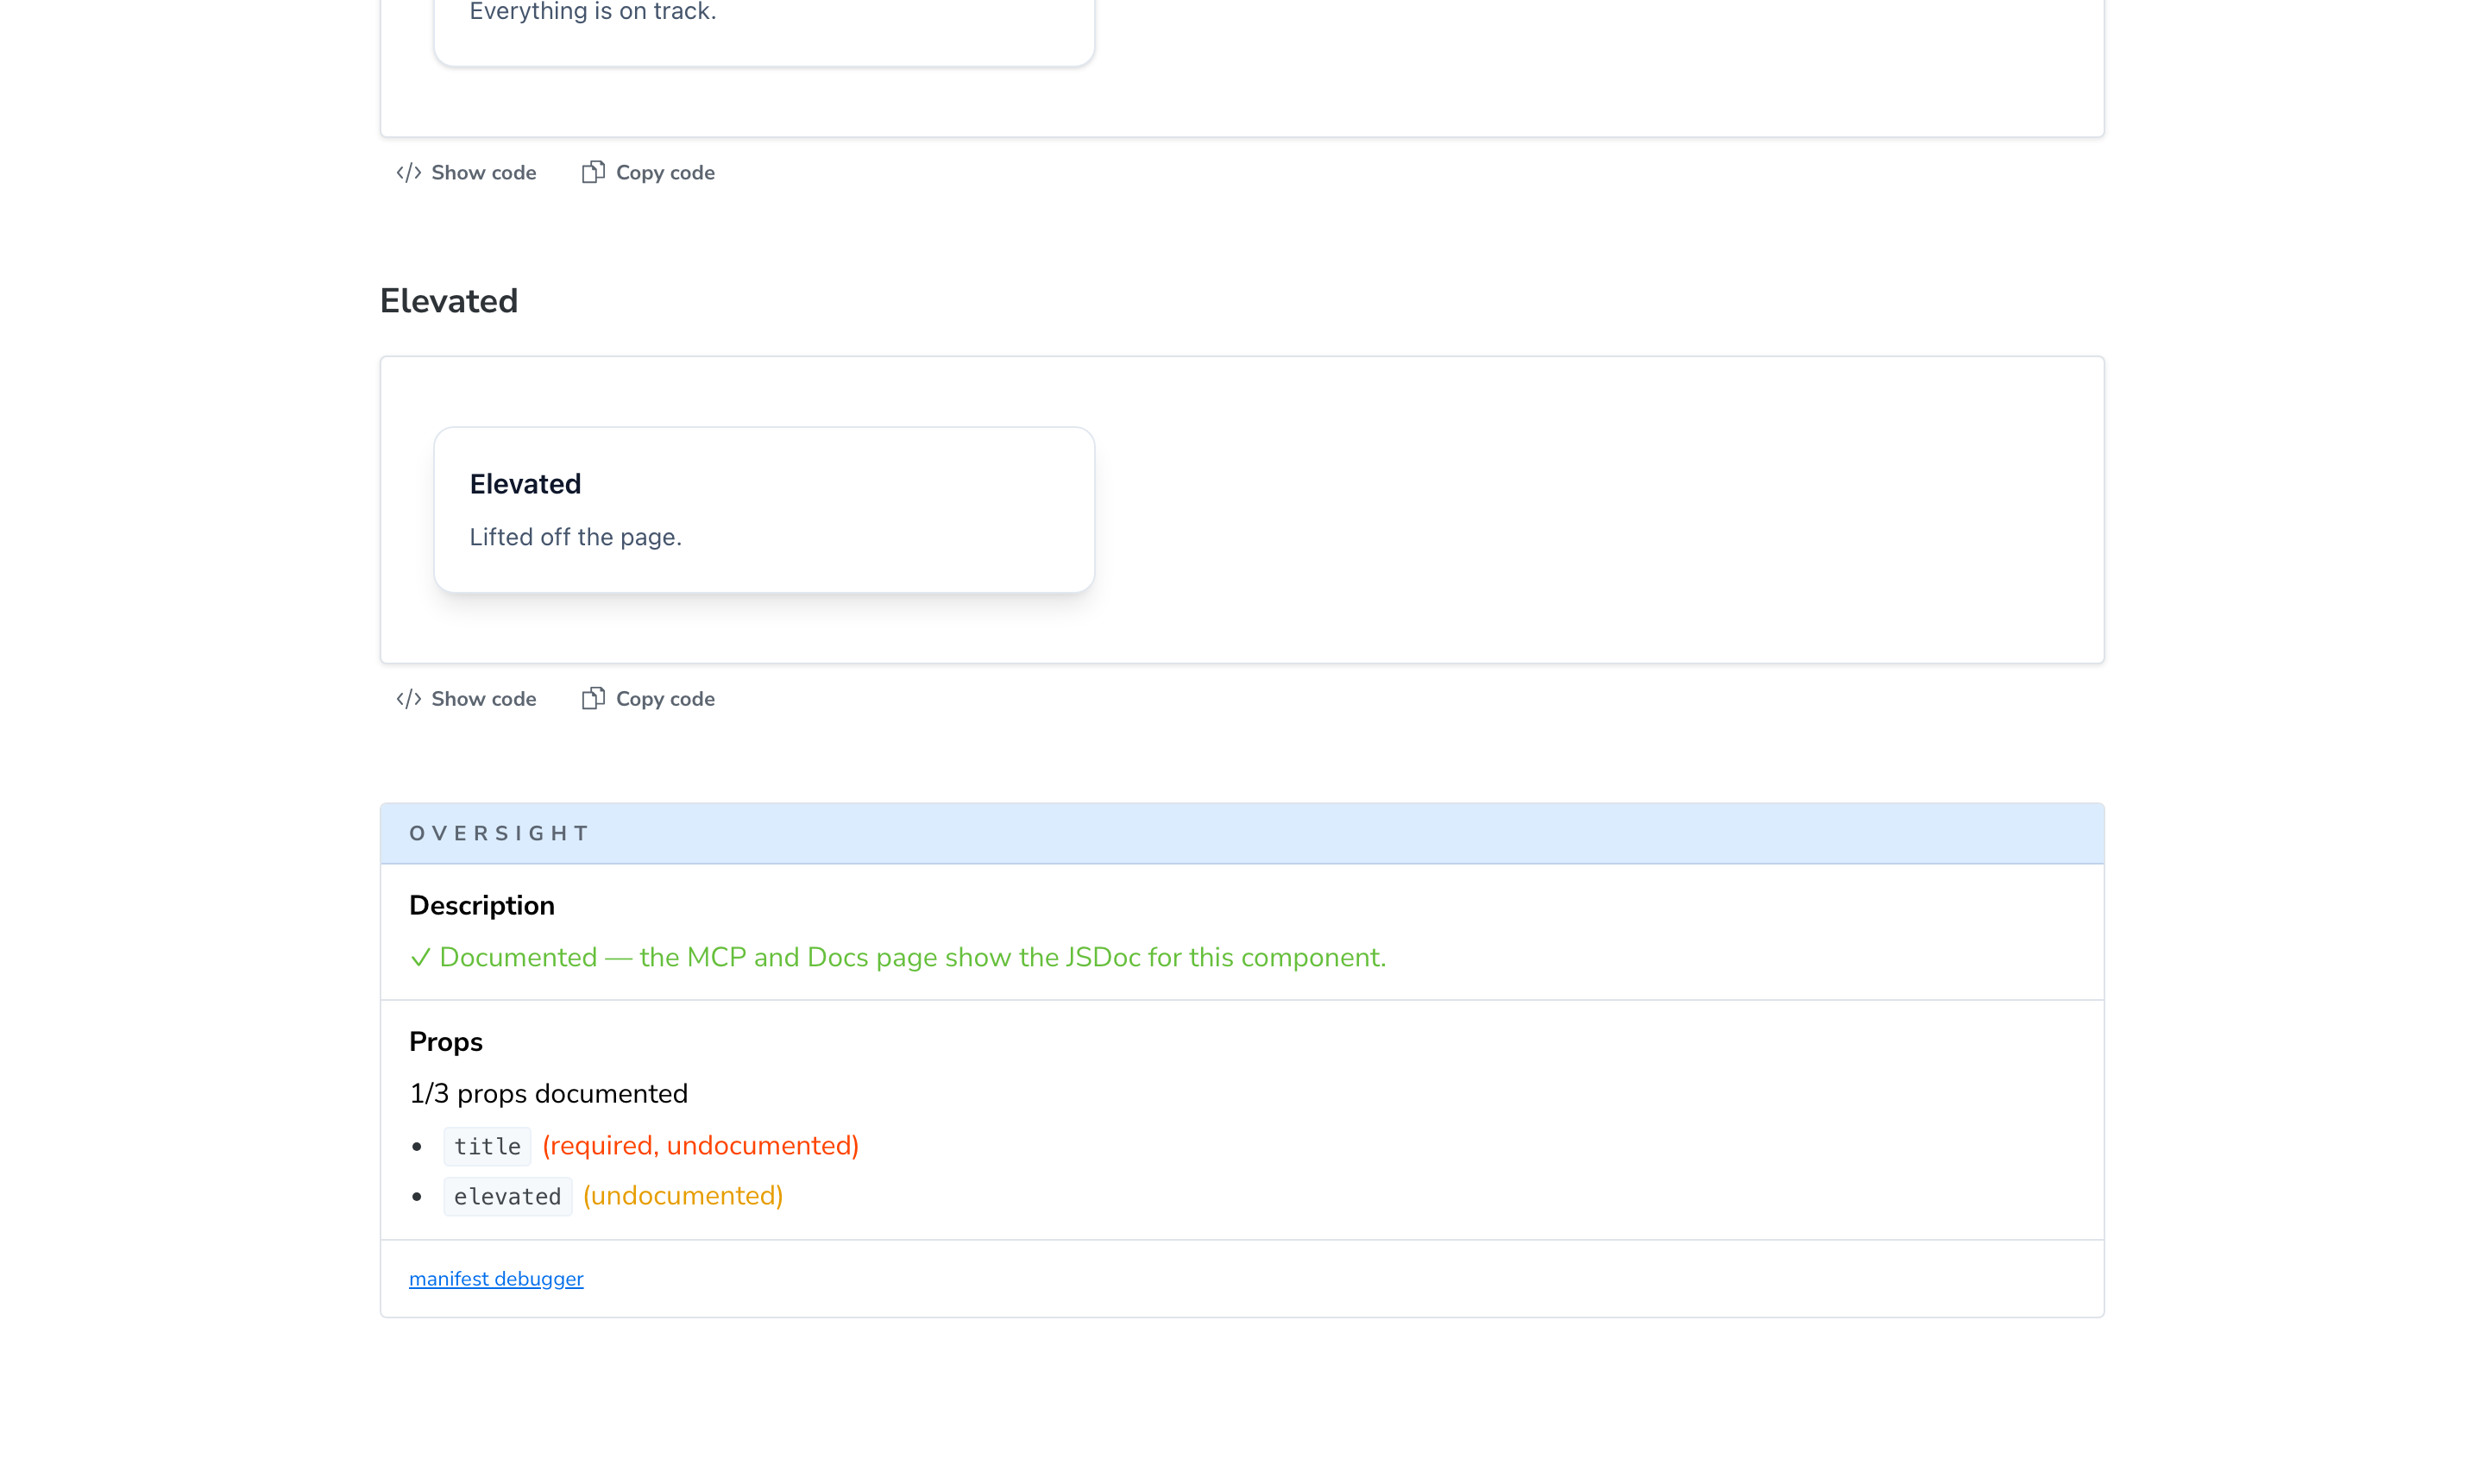
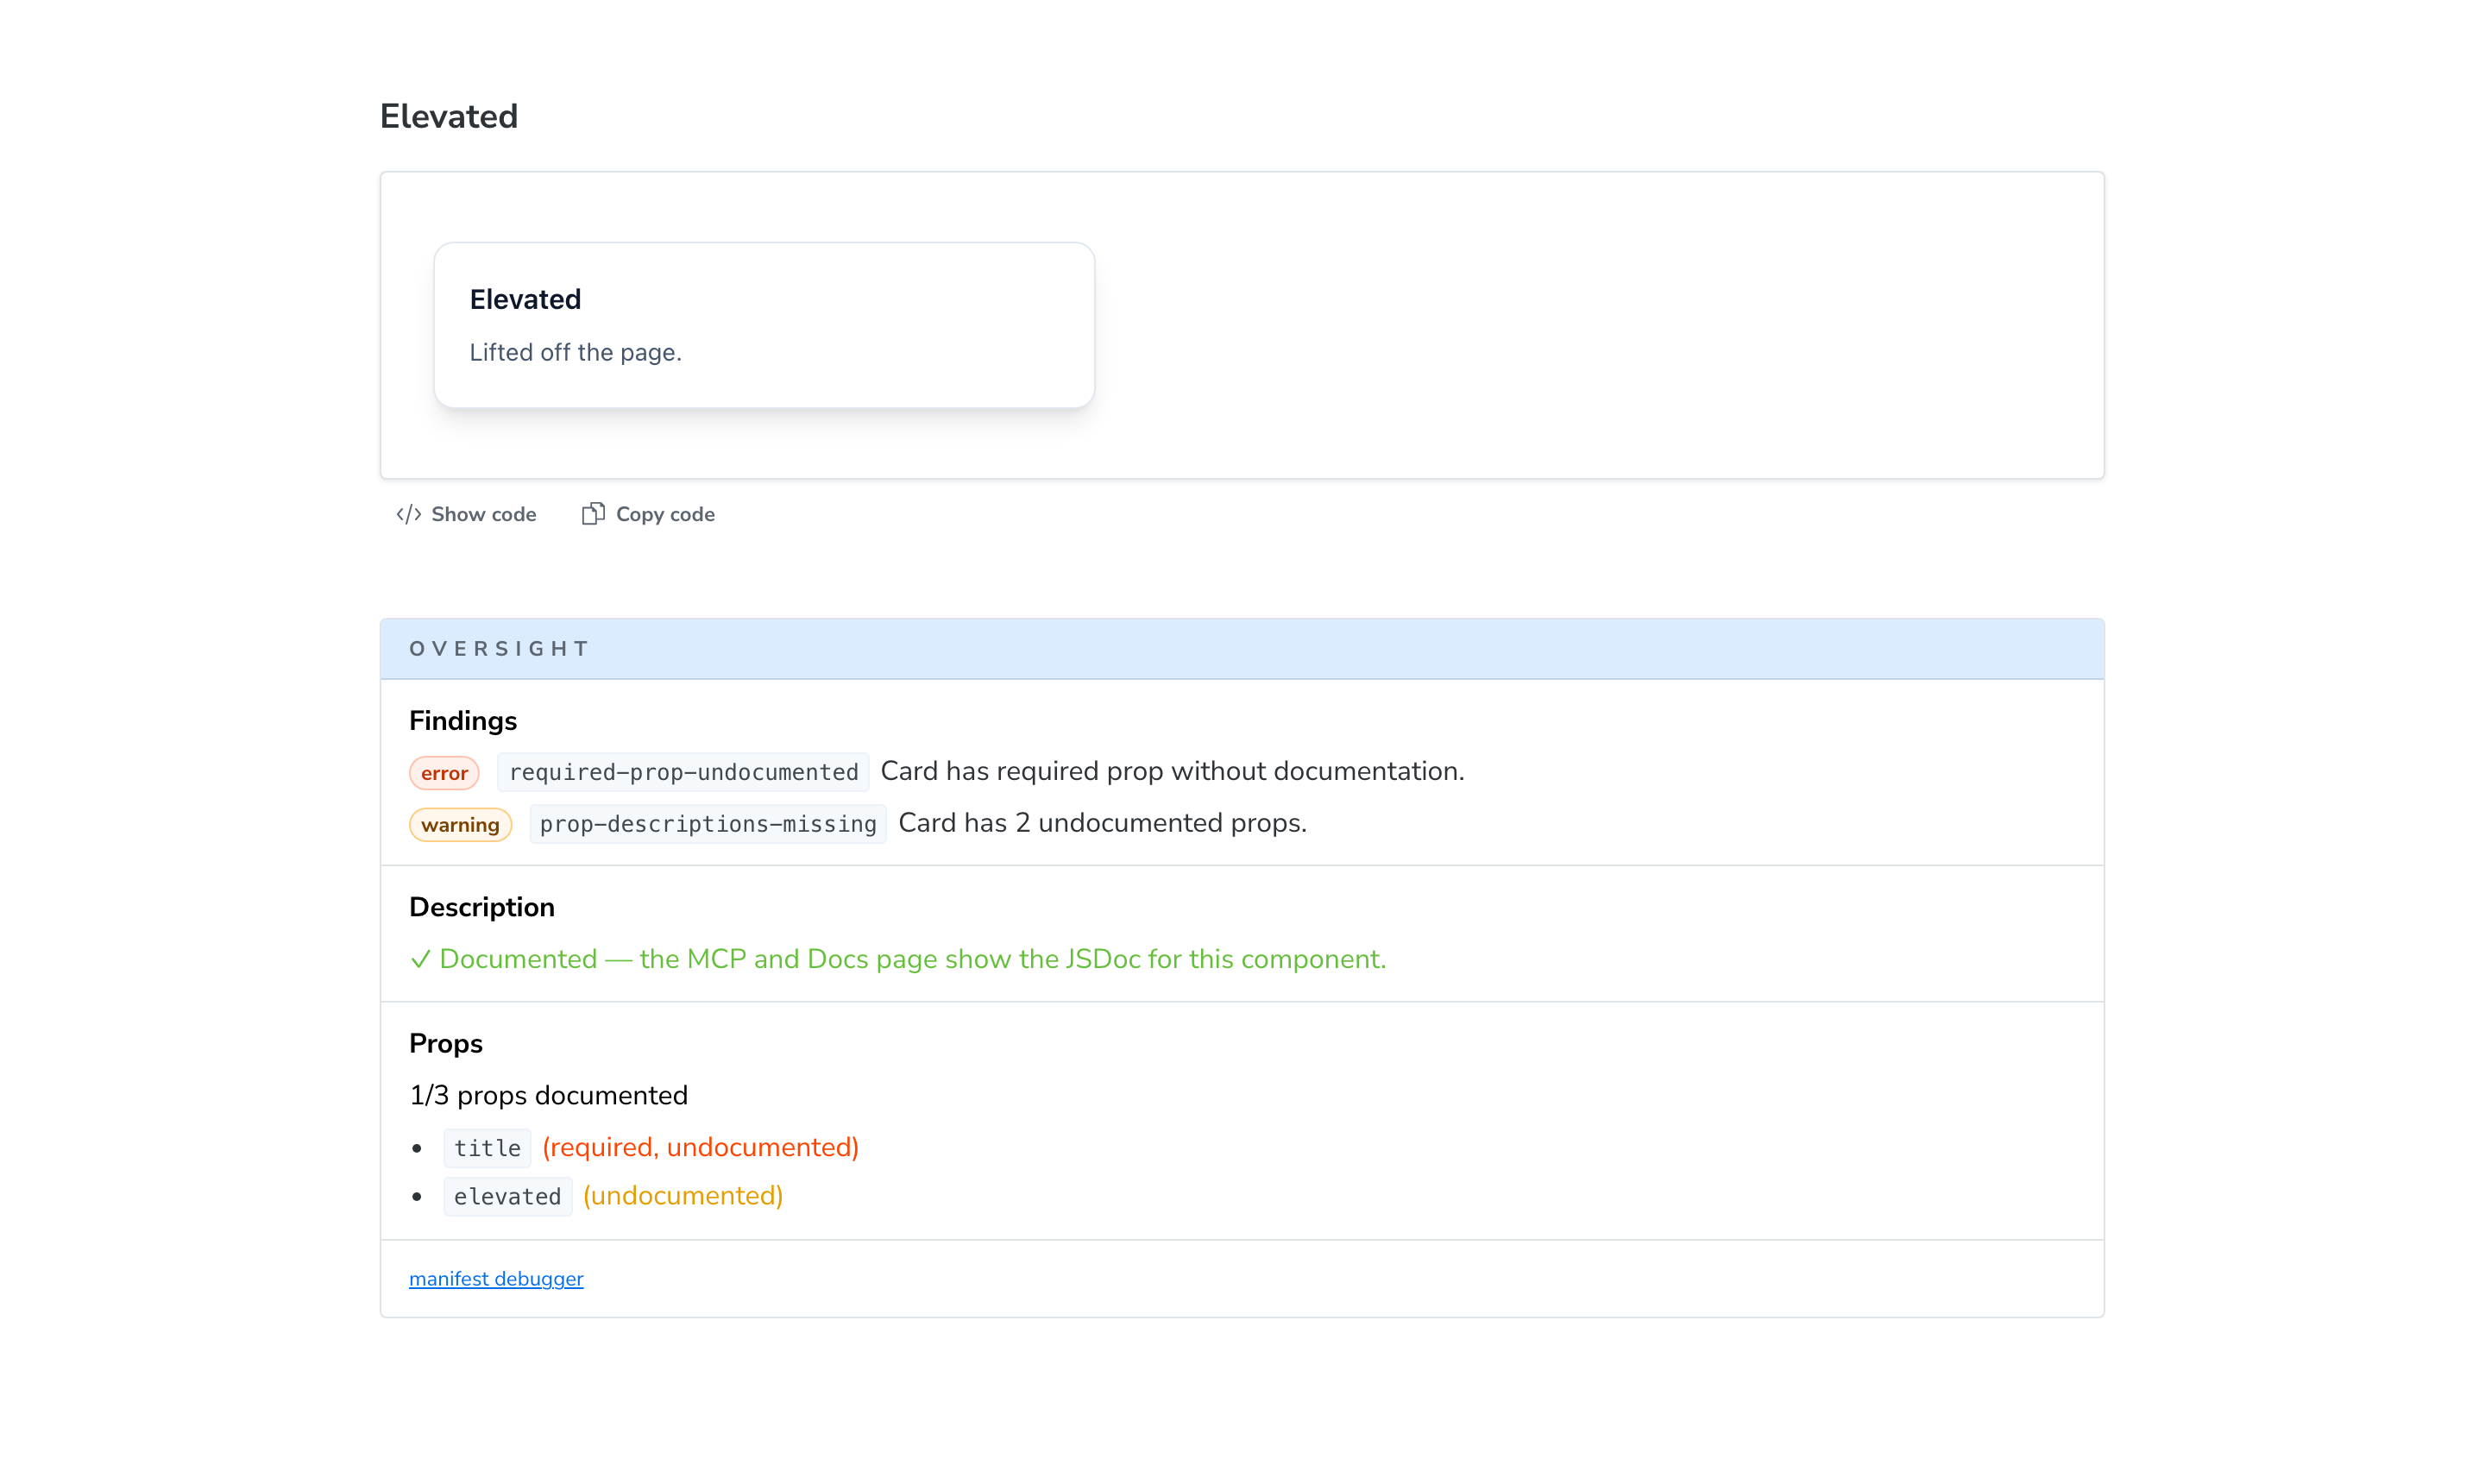
feat: surface findings as named lint rules in the panel and docs block
Render report.diagnostics as a "Findings" section (severity badge + rule name
+ message) in both the manager panel and the docs block, keeping the
Description/Props coverage as drill-down detail. Manifest-level findings
(extractor-drift) get their own "Manifest" section via a new
ComponentReport.manifestDiagnostics field, kept out of the per-component tab
count. Dangling docs links are now struck through inline in the description and
are no longer dead-navigating anchors, driven by a structured `targets` field
on the diagnostic.

Docs: add a "why these are lint rules" section to the README and Overview
explaining the judgments a raw manifest view can't make, correct the Overview's
mischaracterization of extractor-drift as an extraction failure (with an
illustrative Manifest-section still), and regenerate the demo screenshots.

Claude-Session: https://claude.ai/code/session_019cpJgQmmWwrWGQbUu5Xq4d

diff --git a/src/components/ReportView.tsx b/src/components/ReportView.tsx
@@ -1,9 +1,9 @@
 import { Fragment } from 'react';
 import type { ComponentType } from 'react';
-import { Placeholder } from 'storybook/internal/components';
+import { Badge, Placeholder } from 'storybook/internal/components';
 import { styled } from 'storybook/theming';
-import type { ComponentReport } from '../core';
-import { parseInline, splitParagraphs } from './markdown';
+import type { ComponentReport, Diagnostic, DiagnosticSeverity } from '../core';
+import { parseInline, splitParagraphs, storybookPathId } from './markdown';
 
 /** A context-appropriate link to a `?path=/docs|story/<id>` target. The manager
  *  navigates via `api.selectStory`. Only needed by the "full" variant. */
@@ -56,6 +56,15 @@ const Prose = styled.div(({ theme }) => ({
   },
 }));
 
+// A dangling `?path=` redirect: struck through in the error color and NOT a
+// link (so it can't navigate to the missing target). The `docs-link-dangling`
+// finding names it; this marks it where you read it.
+const DanglingLink = styled.span(({ theme }) => ({
+  color: theme.color.negative,
+  whiteSpace: 'nowrap',
+  '& s': { textDecorationColor: theme.color.negative },
+}));
+
 const PropList = styled.ul({
   margin: '6px 0 0',
   paddingLeft: 18,
@@ -68,9 +77,95 @@ const Footer = styled.div(({ theme }) => ({
   '& a': { color: theme.color.secondary },
 }));
 
+// Each severity maps to a Storybook Badge status, so a finding reads as a
+// colored `error`/`warning`/`info` pill next to its rule name.
+const SEVERITY_STATUS: Record<DiagnosticSeverity, 'negative' | 'warning' | 'neutral'> = {
+  error: 'negative',
+  warning: 'warning',
+  info: 'neutral',
+};
+const SEVERITY_RANK: Record<DiagnosticSeverity, number> = { error: 0, warning: 1, info: 2 };
+
+const FindingList = styled.ul({ listStyle: 'none', margin: 0, padding: 0 });
+const FindingItem = styled.li({
+  display: 'flex',
+  gap: 8,
+  alignItems: 'baseline',
+  margin: '0 0 8px',
+  '&:last-child': { margin: 0 },
+});
+const FindingBody = styled.div(({ theme }) => ({ color: theme.color.defaultText, lineHeight: 1.4 }));
+const RuleName = styled.code(({ theme }) => ({
+  fontFamily: theme.typography.fonts.mono,
+  fontSize: '0.92em',
+  color: theme.textMutedColor,
+}));
+const Note = styled.div(({ theme }) => ({
+  color: theme.textMutedColor,
+  fontSize: theme.typography.size.s1,
+  marginBottom: 8,
+}));
+
+/** A severity-badged list of diagnostics, errors first. Shared by the
+ *  per-component "Findings" section and the manifest-level "Manifest" section. */
+function FindingsList({ diagnostics }: { diagnostics: Diagnostic[] }) {
+  const sorted = [...diagnostics].sort((a, b) => SEVERITY_RANK[a.severity] - SEVERITY_RANK[b.severity]);
+  return (
+    <FindingList>
+      {sorted.map((diagnostic, index) => (
+        <FindingItem key={`${diagnostic.rule}-${index}`}>
+          <Badge compact status={SEVERITY_STATUS[diagnostic.severity]}>
+            {diagnostic.severity}
+          </Badge>
+          <FindingBody>
+            <RuleName>{diagnostic.rule}</RuleName> {diagnostic.message}
+          </FindingBody>
+        </FindingItem>
+      ))}
+    </FindingList>
+  );
+}
+
+/** This component's coverage as named lint rules — or a clean-state note when
+ *  nothing fired. */
+function FindingsSection({ diagnostics }: { diagnostics: Diagnostic[] }) {
+  return (
+    <Section>
+      <Heading>Findings</Heading>
+      {diagnostics.length === 0 ? (
+        <Positive>✓ No findings — this component&apos;s docs reach the agent intact.</Positive>
+      ) : (
+        <FindingsList diagnostics={diagnostics} />
+      )}
+    </Section>
+  );
+}
+
+/** Manifest-level findings (e.g. extractor-drift) are a property of the whole
+ *  manifest, not one component, so they get their own section and stay out of
+ *  the per-component tab count. */
+function ManifestSection({ diagnostics }: { diagnostics: Diagnostic[] }) {
+  if (diagnostics.length === 0) return null;
+  return (
+    <Section>
+      <Heading>Manifest</Heading>
+      <Note>Affects every component, not just this one.</Note>
+      <FindingsList diagnostics={diagnostics} />
+    </Section>
+  );
+}
+
 /** Renders the small inline-markdown subset descriptions use, with links routed
  *  through the injected LinkComponent (plain text if none). */
-function Markdown({ text, LinkComponent }: { text: string; LinkComponent?: LinkComponent }) {
+function Markdown({
+  text,
+  LinkComponent,
+  danglingTargets,
+}: {
+  text: string;
+  LinkComponent?: LinkComponent;
+  danglingTargets?: Set<string>;
+}) {
   return (
     <Prose>
       {splitParagraphs(text).map((paragraph, pIndex) => (
@@ -83,12 +178,21 @@ function Markdown({ text, LinkComponent }: { text: string; LinkComponent?: LinkC
                 return <em key={index}>{segment.text}</em>;
               case 'code':
                 return <code key={index}>{segment.text}</code>;
-              case 'link':
+              case 'link': {
+                const targetId = storybookPathId(segment.target);
+                if (targetId && danglingTargets?.has(targetId)) {
+                  return (
+                    <DanglingLink key={index} title={`Broken link: ${segment.target} is not in the manifest`}>
+                      <s>{segment.label}</s> ⚠
+                    </DanglingLink>
+                  );
+                }
                 return LinkComponent ? (
                   <LinkComponent key={index} label={segment.label} target={segment.target} />
                 ) : (
                   <Fragment key={index}>{segment.label}</Fragment>
                 );
+              }
               default:
                 return <Fragment key={index}>{segment.text}</Fragment>;
             }
@@ -125,12 +229,14 @@ function DescriptionSection({
   name,
   variant,
   LinkComponent,
+  danglingTargets,
 }: {
   description: string | null;
   sourceFile: string | null;
   name: string;
   variant: ReportViewVariant;
   LinkComponent?: LinkComponent;
+  danglingTargets?: Set<string>;
 }) {
   return (
     <Section>
@@ -143,7 +249,7 @@ function DescriptionSection({
       ) : variant === 'compact' ? (
         <Positive>✓ Documented — the MCP and Docs page show the JSDoc for this component.</Positive>
       ) : (
-        <Markdown text={description} LinkComponent={LinkComponent} />
+        <Markdown text={description} LinkComponent={LinkComponent} danglingTargets={danglingTargets} />
       )}
     </Section>
   );
@@ -195,13 +301,15 @@ export function ReportView({
     return <Placeholder>No manifest entry for this component.</Placeholder>;
   }
 
-  const { component, failure, storyFailures, diagnostics } = report;
+  const { component, failure, storyFailures, diagnostics, manifestDiagnostics } = report;
   const componentId = component?.id ?? failure?.id ?? '';
   const storyErrorsShown = diagnostics.some((d) => d.rule === 'story-extraction-error') && storyFailures.length > 0;
 
   if (failure) {
     return (
       <>
+        <ManifestSection diagnostics={manifestDiagnostics} />
+        <FindingsSection diagnostics={diagnostics} />
         <Section>
           <Heading>Extraction</Heading>
           <Negative>
@@ -219,15 +327,21 @@ export function ReportView({
 
   const propNames = Object.keys(component.props);
   const undocumented = propNames.filter((name) => component.props[name].description === null);
+  const danglingTargets = new Set(
+    diagnostics.filter((d) => d.rule === 'docs-link-dangling').flatMap((d) => d.targets ?? []),
+  );
 
   return (
     <>
+      <ManifestSection diagnostics={manifestDiagnostics} />
+      <FindingsSection diagnostics={diagnostics} />
       <DescriptionSection
         description={component.description}
         sourceFile={component.sourceFile}
         name={component.name}
         variant={variant}
         LinkComponent={LinkComponent}
+        danglingTargets={danglingTargets}
       />
       <Section>
         <Heading>Props</Heading>

diff --git a/src/core/report.test.ts b/src/core/report.test.ts
@@ -59,6 +59,47 @@ describe('buildReport (fixture)', () => {
     expect(report.diagnostics).toHaveLength(0);
   });
 
+  it('routes manifest-level extractor-drift to manifestDiagnostics, not per-component', () => {
+    const drift: RawManifest = {
+      meta: { docgen: 'react-docgen' }, // ≠ the default expected react-docgen-typescript
+      components: {
+        'ui-thing': {
+          name: 'Thing',
+          path: './thing.stories.tsx',
+          description: 'A well documented thing.',
+          reactDocgen: {
+            description: 'A well documented thing.',
+            props: { label: { description: 'The label.', required: true } },
+          },
+        },
+      },
+    };
+    const report = buildReport(drift, 'ui-thing');
+    // The component itself is clean — drift must not leak into its findings/count.
+    expect(report.diagnostics).toHaveLength(0);
+    expect(report.manifestDiagnostics.map((d) => d.rule)).toEqual(['extractor-drift']);
+    expect(report.manifestDiagnostics[0].severity).toBe('warning');
+    expect(report.manifestDiagnostics[0].componentId).toBeNull();
+  });
+
+  it('has no manifest-level findings when the extractor matches the expectation', () => {
+    const clean: RawManifest = {
+      meta: { docgen: 'react-docgen-typescript' },
+      components: {
+        'ui-thing': {
+          name: 'Thing',
+          path: './thing.stories.tsx',
+          description: 'A well documented thing.',
+          reactDocgenTypescript: {
+            description: 'A well documented thing.',
+            props: { label: { description: 'The label.', required: true } },
+          },
+        },
+      },
+    };
+    expect(buildReport(clean, 'ui-thing').manifestDiagnostics).toHaveLength(0);
+  });
+
   it('passes lint options through to the resolved diagnostics', () => {
     const report = buildReport(
       {

diff --git a/src/core/report.ts b/src/core/report.ts
@@ -26,6 +26,10 @@ export type ComponentReport = {
   storyFailures: StoryFailure[];
   /** Diagnostics scoped to this component. */
   diagnostics: Diagnostic[];
+  /** Manifest-level diagnostics (`componentId: null`, e.g. extractor-drift) —
+   *  the same list on every component's report, rendered in their own section
+   *  and deliberately kept out of the per-component count. */
+  manifestDiagnostics: Diagnostic[];
 };
 
 export function analyzeManifest(manifest: RawManifest, options?: LintOptions): ManifestAnalysis {
@@ -43,6 +47,7 @@ export function resolveComponent(analysis: ManifestAnalysis, componentId: string
     failure,
     storyFailures: analysis.result.storyFailures.filter((f) => f.componentId === componentId),
     diagnostics: analysis.diagnostics.filter((d) => d.componentId === componentId),
+    manifestDiagnostics: analysis.diagnostics.filter((d) => d.componentId === null),
   };
 }
 

diff --git a/src/core/types.ts b/src/core/types.ts
@@ -110,4 +110,7 @@ export type Diagnostic = {
   componentId: string | null;
   message: string;
   props?: string[];
+  /** For `docs-link-dangling`: the `?path=` target ids that resolve to nothing,
+   *  so the renderer can strike the offending links through inline. */
+  targets?: string[];
 };

diff --git a/src/core/lint.test.ts b/src/core/lint.test.ts
@@ -282,6 +282,8 @@ describe('lint (synthetic cases the fixture cannot cover)', () => {
     expect(dangling[0].componentId).toBe('a');
     expect(dangling[0].message).toContain('group-ghost--docs');
     expect(dangling[0].message).not.toContain('group-b--docs');
+    // Structured targets drive the inline strikethrough — only the dead id.
+    expect(dangling[0].targets).toEqual(['group-ghost--docs']);
   });
 
   it('honors per-rule overrides: off drops, severity remaps', () => {

diff --git a/src/core/lint.ts b/src/core/lint.ts
@@ -114,6 +114,7 @@ export function lint(result: NormalizeResult, options: LintOptions = {}): Diagno
         severity: 'error',
         componentId: id,
         message: `${name} links to unknown manifest ids: ${[...dangling].join(', ')}.`,
+        targets: [...dangling],
       });
     }
   }

diff --git a/README.md b/README.md
@@ -112,6 +112,30 @@ prerequisite as the panel.
 | `unknown-ignore-rule`           | warning          | `@oversightIgnore` lists a token that is not a rule name                                       |
 | `deprecated-tag`                | info             | a `@deprecated` tag is present                                                                 |
 
+## Why these are lint rules, not a manifest dump
+
+The raw manifest is already viewable: `@storybook/addon-mcp` serves a debugger at
+`components.html`. Oversight earns its place by making judgments a viewer that
+only displays the manifest can't:
+
+- **`extractor-drift` is a comparison.** The manifest looks fine on its own; it's
+  only wrong _relative to_ the extractor you expected, so a raw view has nothing
+  to flag against. Oversight holds the expectation (`expectedExtractor`) and
+  checks the manifest against it. It's a property of the whole manifest, not any
+  one component, which is why the panel shows it in its own **Manifest** section.
+- **`docs-link-dangling` needs every other entry.** One component's entry can't
+  tell you its `?path=` redirect points at nothing; that takes cross-referencing
+  every id in the manifest. A per-component view can't see it; Oversight can.
+- **`required-prop-undocumented` vs `prop-descriptions-missing` is a severity
+  call.** Every blank prop description renders the same in a raw view. Oversight
+  decides that an undocumented _required_ prop is the one an agent is most likely
+  to guess at, so it's an `error`, while a missing optional description is a
+  `warning`.
+
+That is what the `error` / `warning` / `info` severities are: a judgment about
+how likely each gap is to mislead an agent. A viewer can show you the manifest;
+only a linter has an opinion about it.
+
 ## Authoring MCP-legible docs
 
 Authoring legible docs is standard Storybook practice: you write no